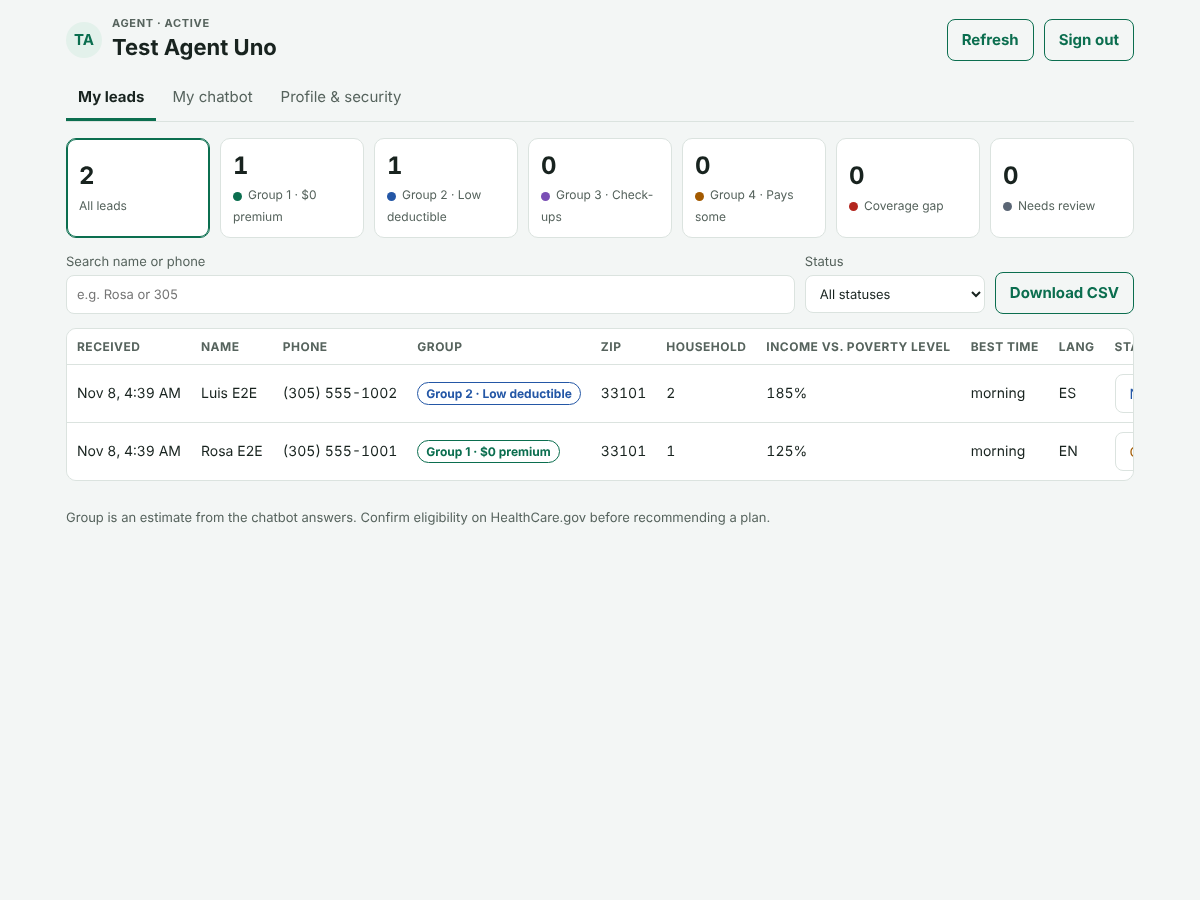
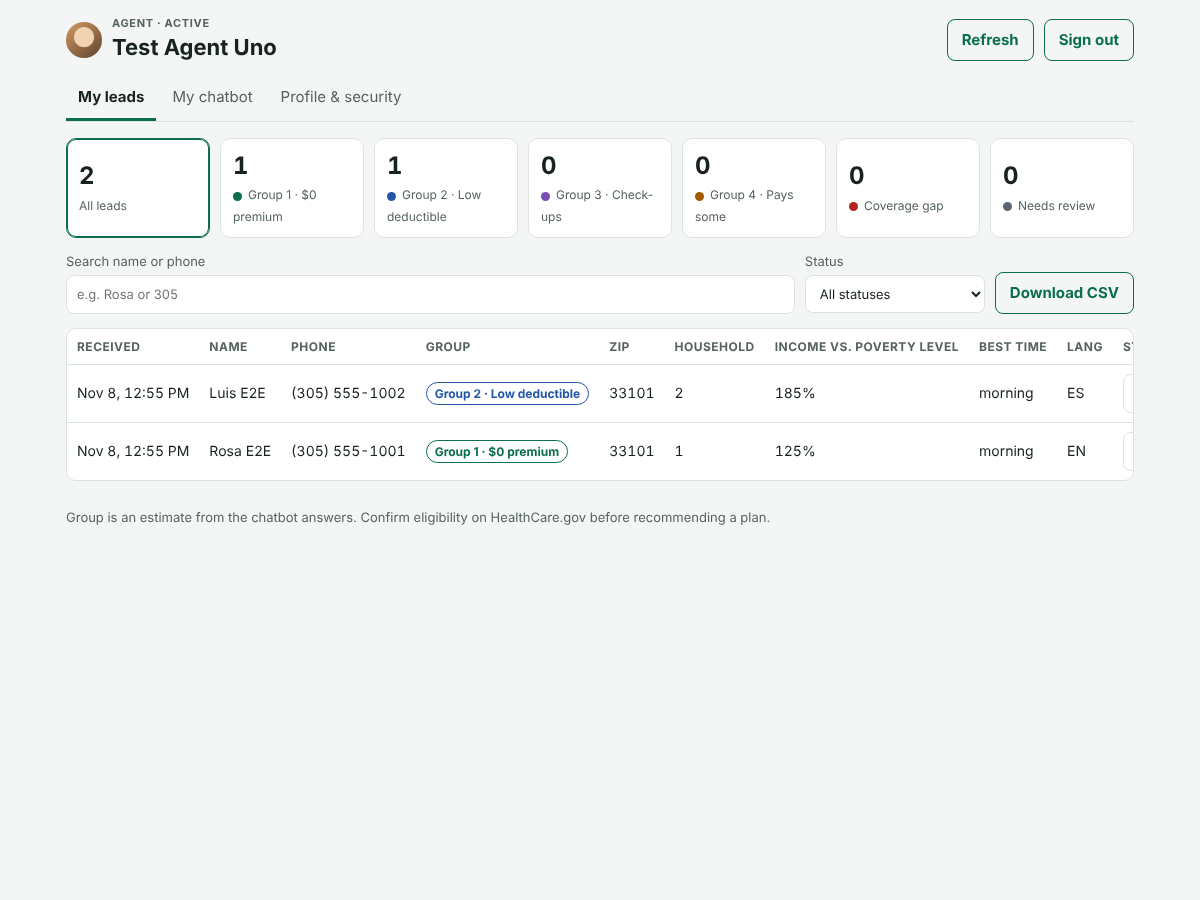
v5: site start page, security headers, Netlify-ready app folder; portal tab-reset fix; live test 38/38
Claude-Session: https://claude.ai/code/session_01VnQj9bJSbyG3k5xyin3hm7

diff --git a/app/index.html b/app/index.html
@@ -1,0 +1,4 @@
+<!doctype html>
+<html lang="en"><head><meta charset="utf-8"><meta name="viewport" content="width=device-width, initial-scale=1">
+<title>Lead Bot Agent Portal</title><meta http-equiv="refresh" content="0; url=portal.html"></head>
+<body><p><a href="portal.html">Go to the Agent Portal</a></p></body></html>
